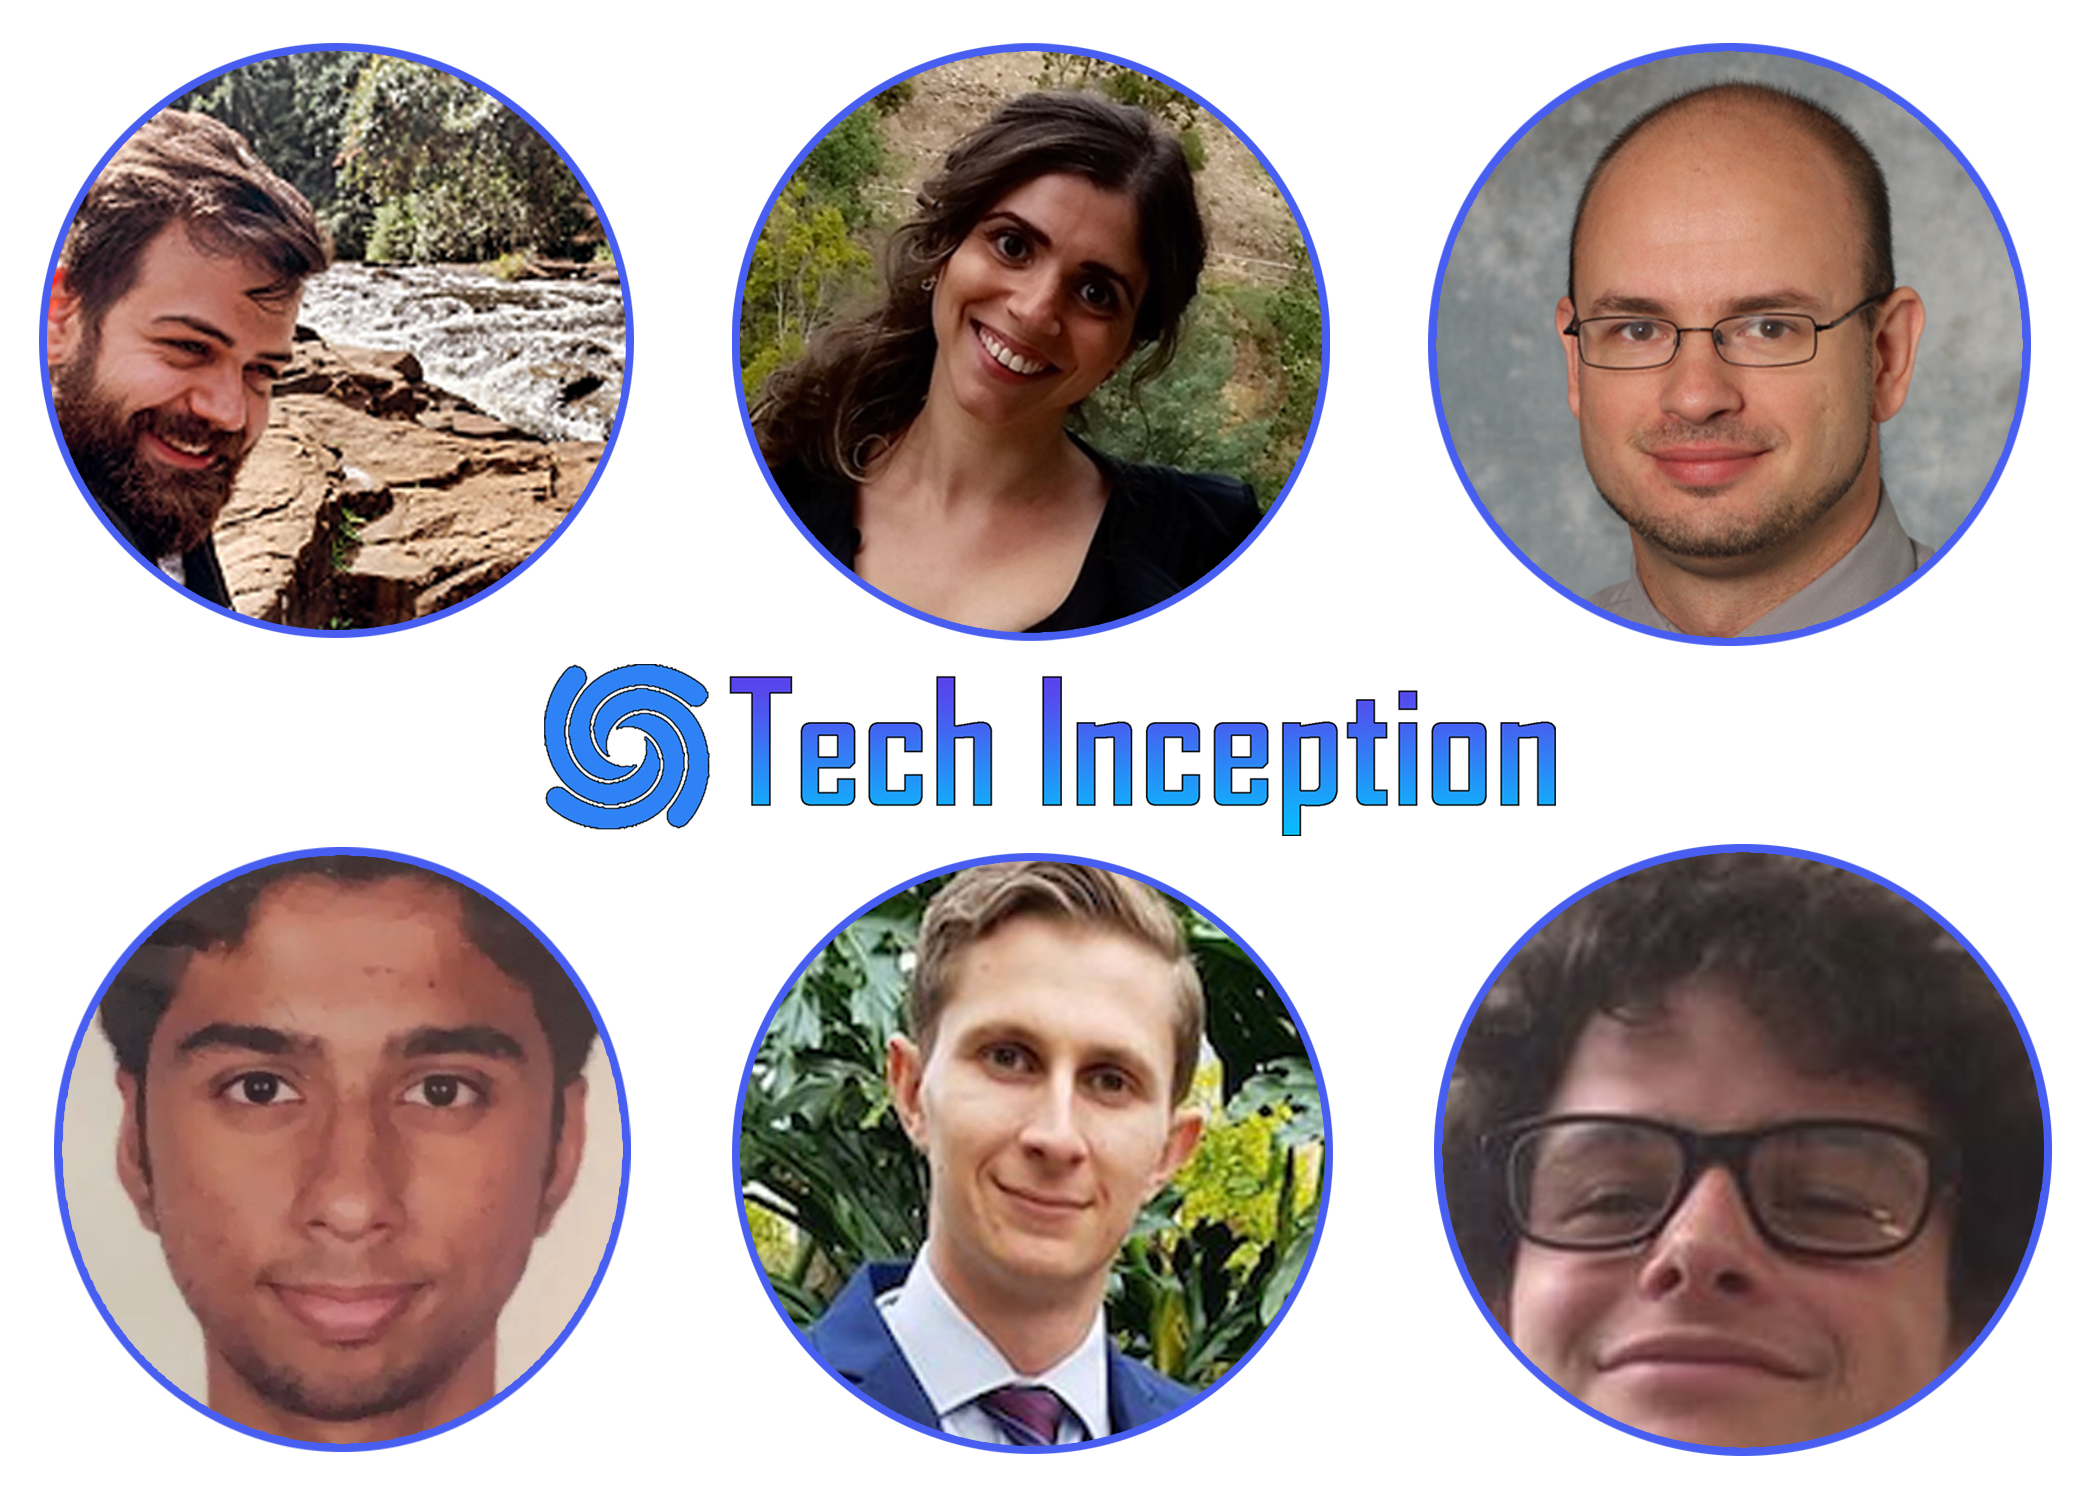
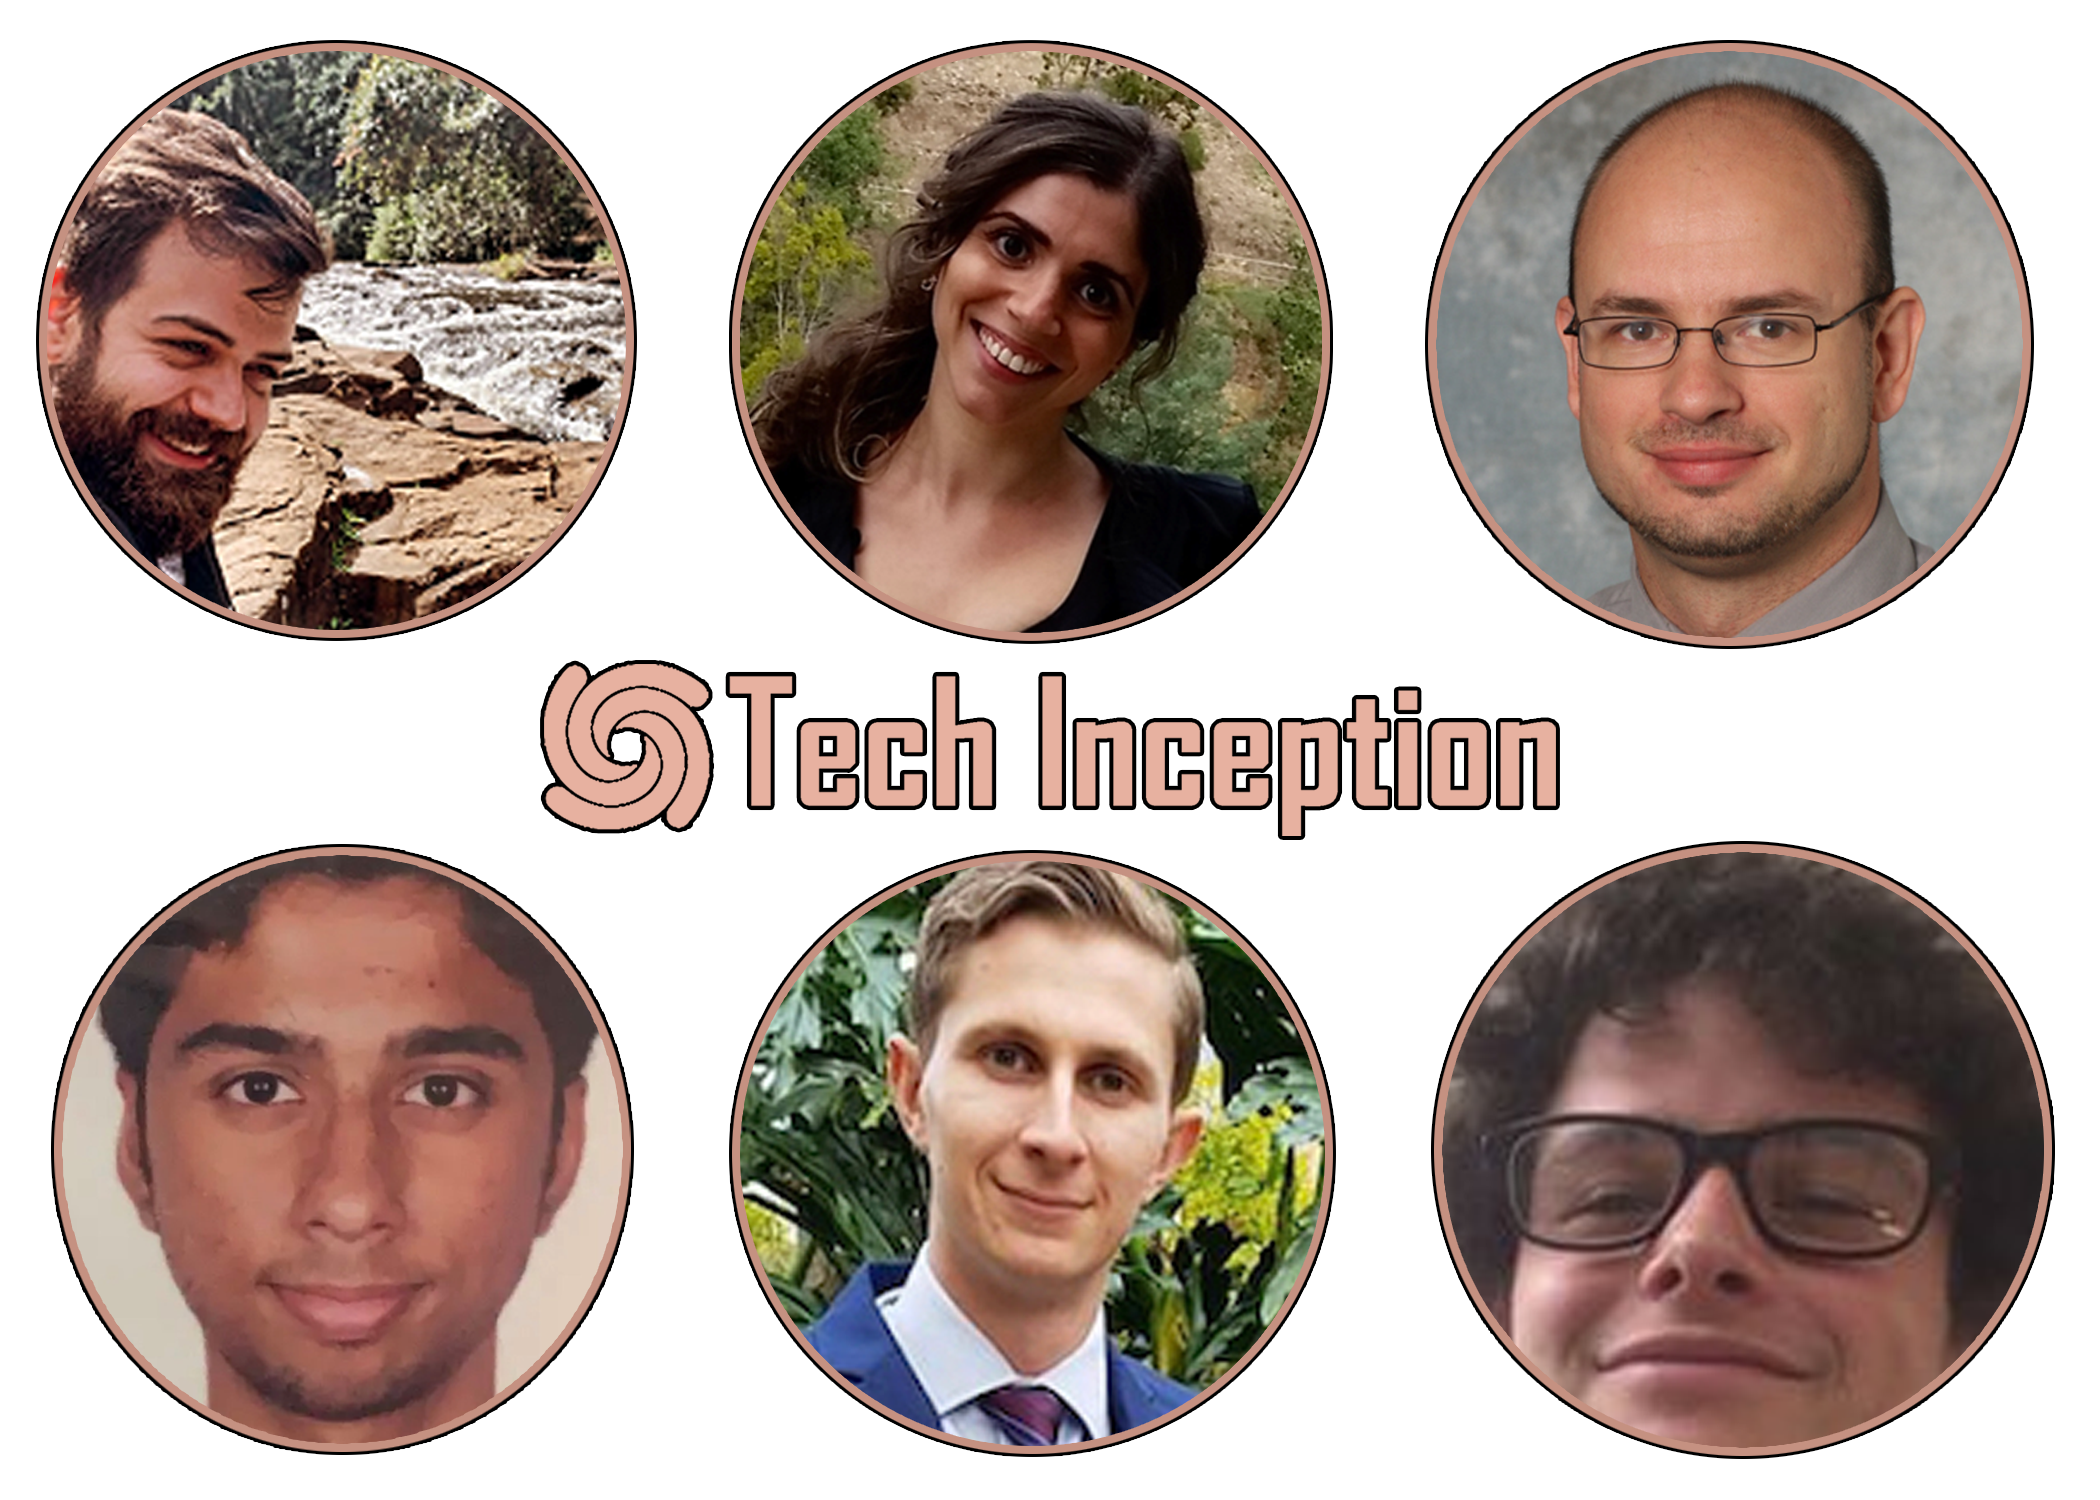
Navigation changes and Image update
Viktor:
Modified Team image to match color scheme.
Added Ideal Jobs Tab
Added Tools Tab
Added Work Tab

Icons for the new tabs still need updating

diff --git a/index.html b/index.html
@@ -21,7 +21,10 @@
 					<nav id="nav">
 						<a href="#home"> <img src="images/home.png" width=80% height=80%> <span>Home</span></a>
 						<a href="#team"> <img src="images/group.png" width=99% height=99%> <span>Team</span></a>
+						<a href="#jobs"> <img src="images/industrial-park.png" width=80% height=80%> <span>Jobs</span></a>
+						<a href="#tools"> <img src="images/industrial-park.png" width=80% height=80%> <span>Tools</span></a>
 						<a href="#industry"> <img src="images/industrial-park.png" width=80% height=80%> <span>Industry</span></a>
+						<a href="#work"> <img src="images/industrial-park.png" width=80% height=80%> <span>Work</span></a>
 						<a href="#technologies"> <img src="images/chip.png" width=80% height=80%> <span>Technologies</span></a>
 						<a href="#project"> <img src="images/lightbulb.png" width=80% height=80%> <span>Project</span></a>
 					</nav>
@@ -42,7 +45,7 @@
 						<!-- Team -->
 							<article id="team" class="panel">
 								<header>
-									<h1 style="text-align:center;">Our Team Profile</h1>
+									<h1 style="text-align:center;">Team Profile</h1>
 								</header>
 								<section>
 									<div class="row">
@@ -74,6 +77,34 @@
 								</section>
 							</article>
 
+							<!-- Ideal Jobs -->
+								<article id="jobs" class="panel">
+									<header>
+										<h1 style="text-align:center;">Ideal Jobs</h1>
+									</header>
+										<div>
+
+									<br>
+									<p>   </p>
+									<p>   </p>
+									<p>   </p>
+										</div>
+								</article>
+
+								<!-- Tools -->
+									<article id="tools" class="panel">
+										<header>
+											<h1 style="text-align:center;">Tools</h1>
+										</header>
+											<div>
+
+										<br>
+										<p>   </p>
+										<p>   </p>
+										<p>   </p>
+											</div>
+									</article>
+
 						<!-- Industry -->
 							<article id="industry" class="panel">
 								<header>
@@ -88,10 +119,24 @@
 									</div>
 							</article>
 
+							<!-- Work -->
+								<article id="work" class="panel">
+									<header>
+										<h1 style="text-align:center;">IT Work</h1>
+									</header>
+										<div>
+
+									<br>
+									<p>   </p>
+									<p>   </p>
+									<p>   </p>
+										</div>
+								</article>
+
 								<!-- Technologies -->
 							<article id="technologies" class="panel">
 								<header>
-									<h1 style="text-align:center;">IT Technologies/Tools</h1>
+									<h1 style="text-align:center;">IT Technologies</h1>
 								</header>
 									<div>
 
